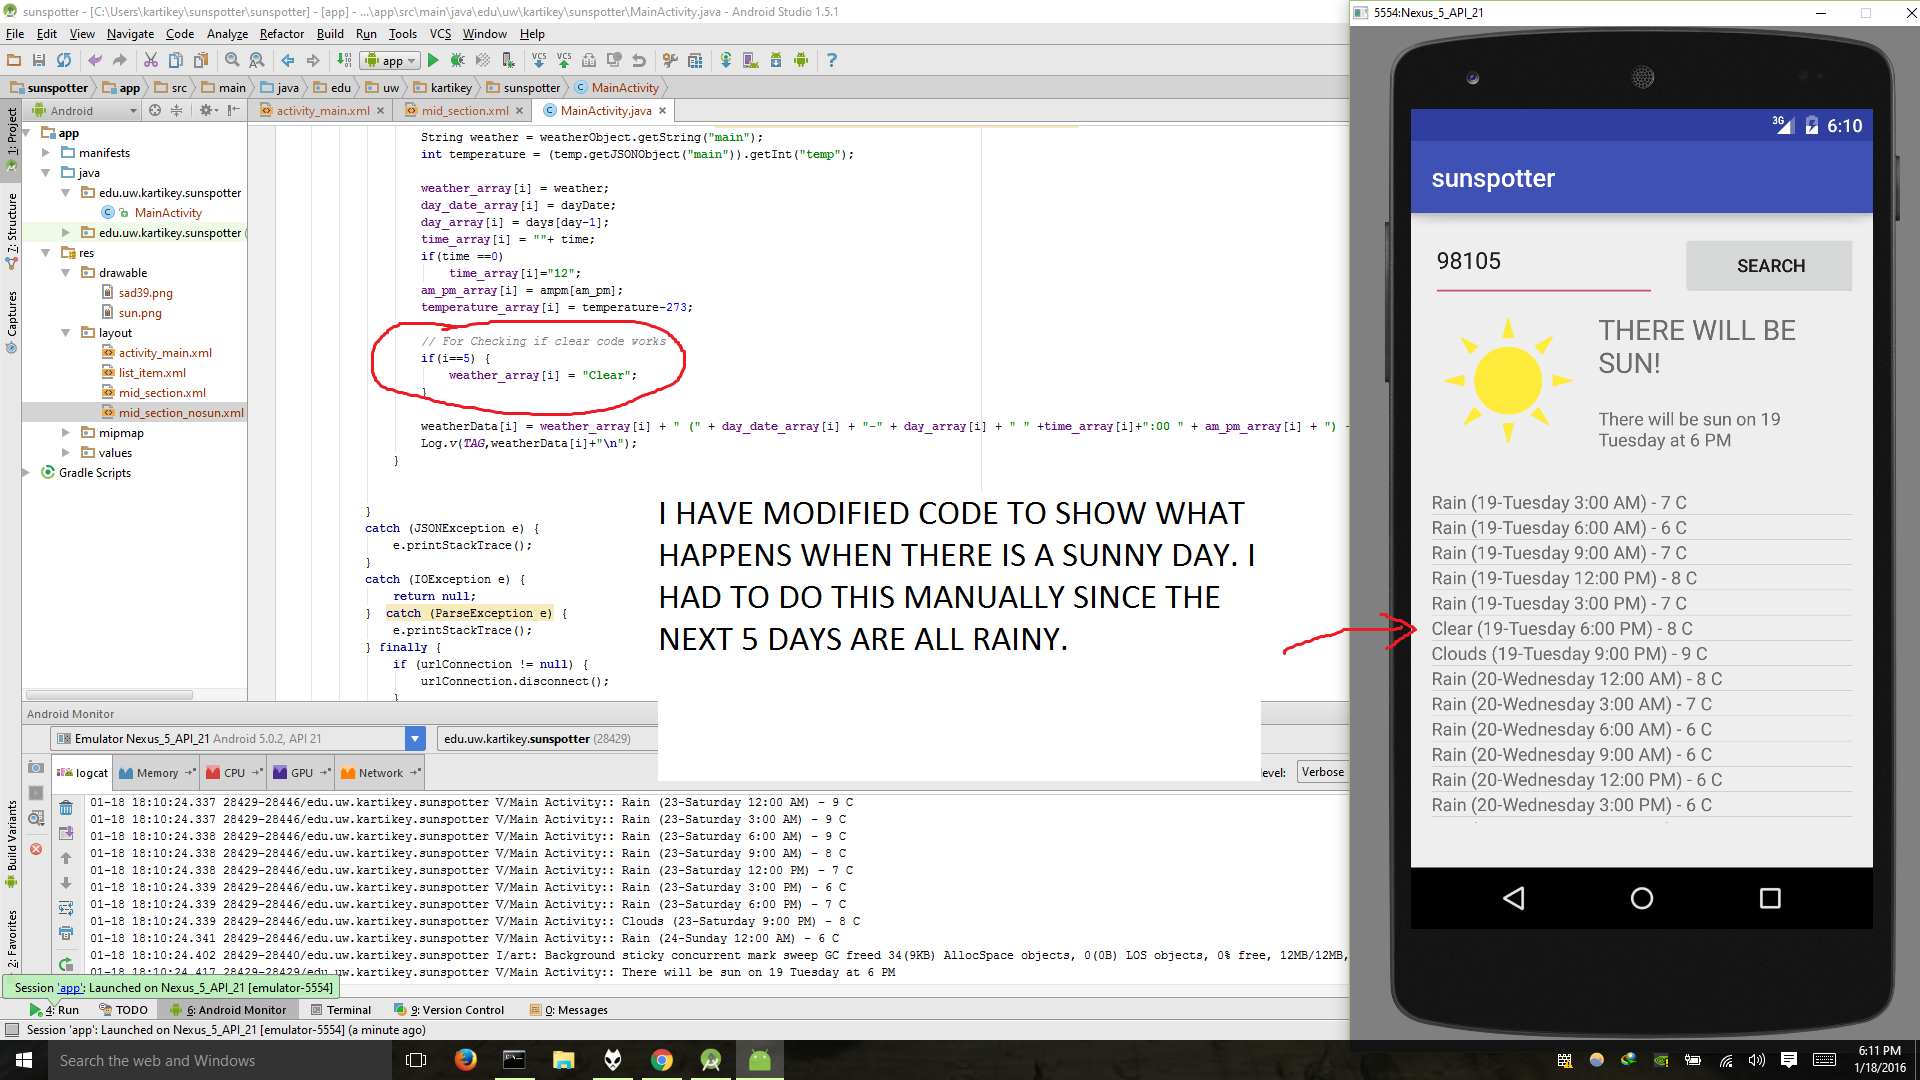
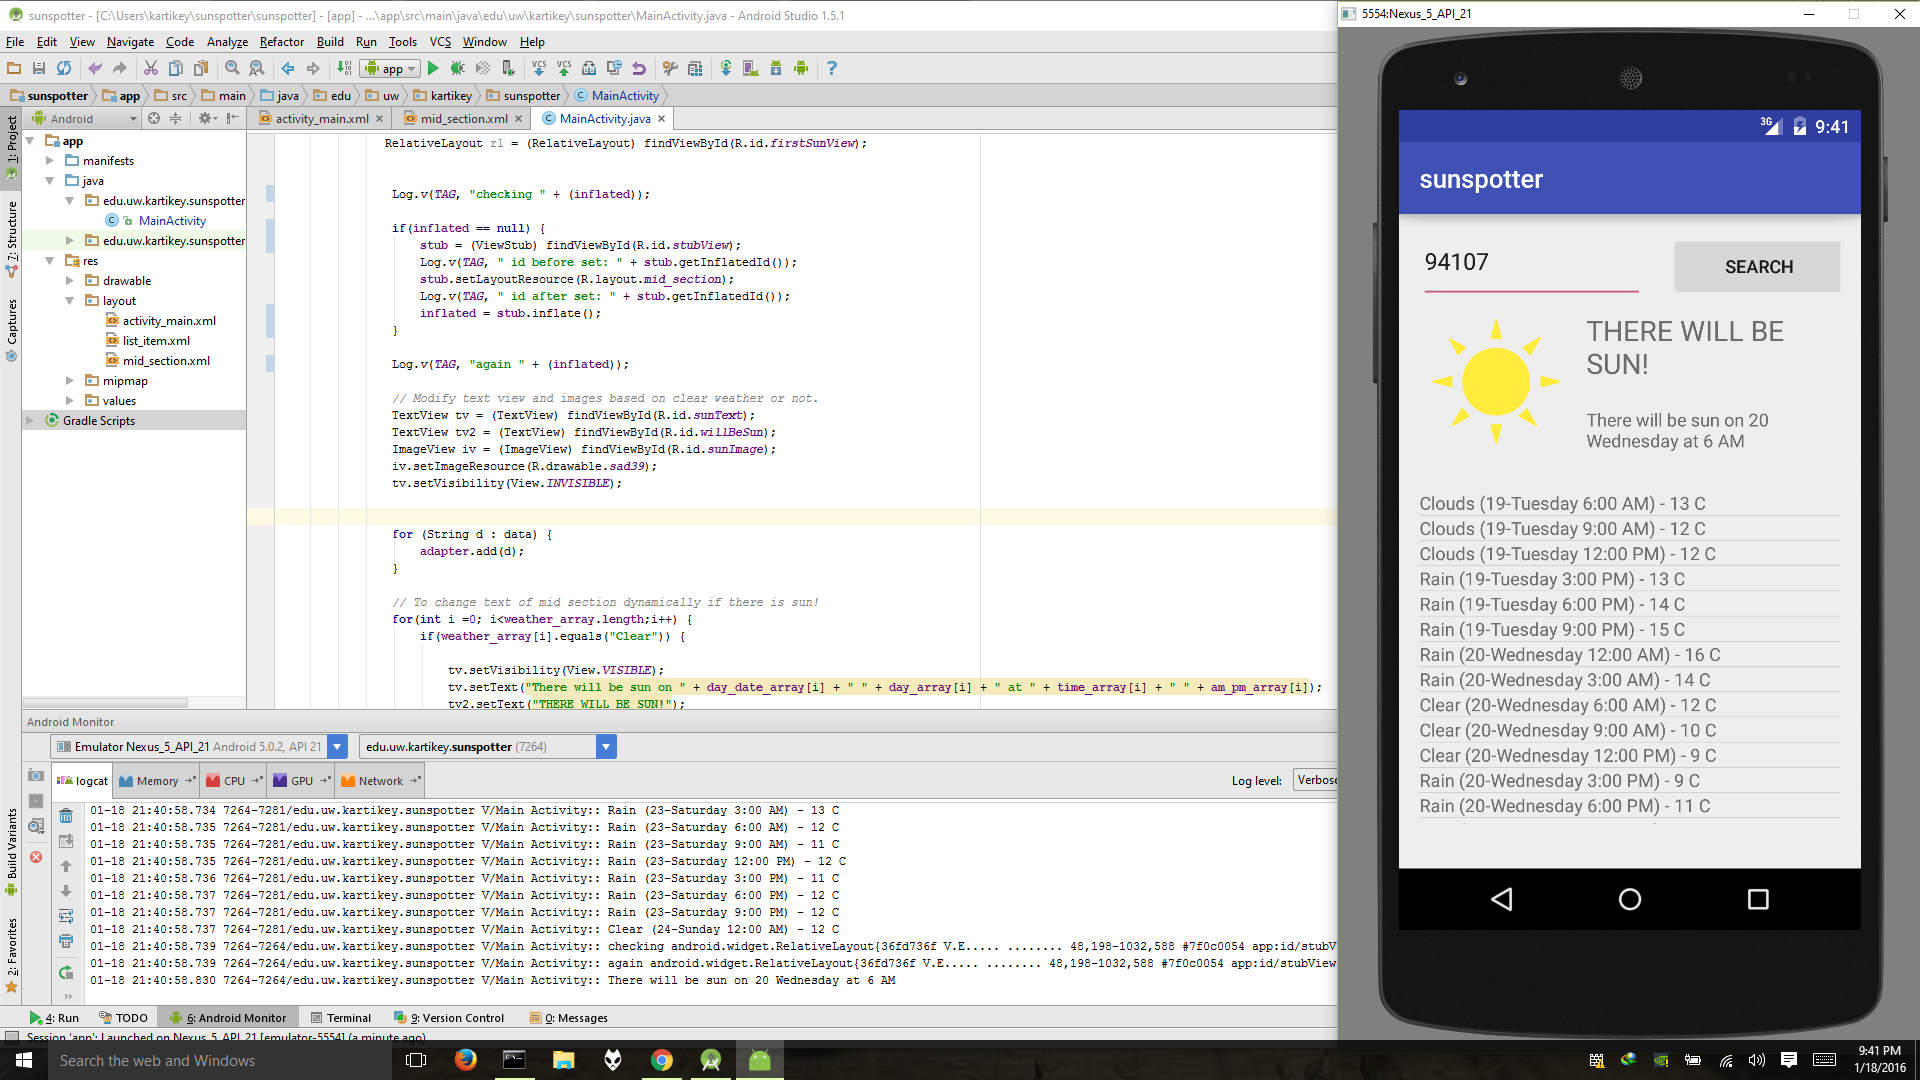
fixed crash while researching after first search

diff --git a/sunspotter/app/src/main/java/edu/uw/kartikey/sunspotter/MainActivity.java b/sunspotter/app/src/main/java/edu/uw/kartikey/sunspotter/MainActivity.java
@@ -39,6 +39,7 @@ public class MainActivity extends AppCompatActivity {
 
     private ArrayAdapter<String> adapter;
     static final String TAG = "Main Activity: ";
+    View inflated = null;
 
 
     @Override
@@ -82,6 +83,8 @@ public class MainActivity extends AppCompatActivity {
         protected String time_array[];
         protected String am_pm_array[];
         protected int temperature_array[];
+        protected ViewStub stub = null;
+
 
         protected String[] doInBackground(String... params){
 
@@ -214,17 +217,17 @@ public class MainActivity extends AppCompatActivity {
                RelativeLayout rl = (RelativeLayout) findViewById(R.id.firstSunView);
 
 
-                Log.v(TAG, "checking "+(rl));
+                Log.v(TAG, "checking " + (inflated));
 
-                ViewStub stub = (ViewStub) findViewById(R.id.stubView);
-
-
+                if(inflated == null) {
+                    stub = (ViewStub) findViewById(R.id.stubView);
                     Log.v(TAG, " id before set: " + stub.getInflatedId());
                     stub.setLayoutResource(R.layout.mid_section);
                     Log.v(TAG, " id after set: " + stub.getInflatedId());
-                    stub.inflate();
+                    inflated = stub.inflate();
+                }
 
-
+                Log.v(TAG, "again " + (inflated));
 
                 // Modify text view and images based on clear weather or not.
                 TextView tv = (TextView) findViewById(R.id.sunText);
